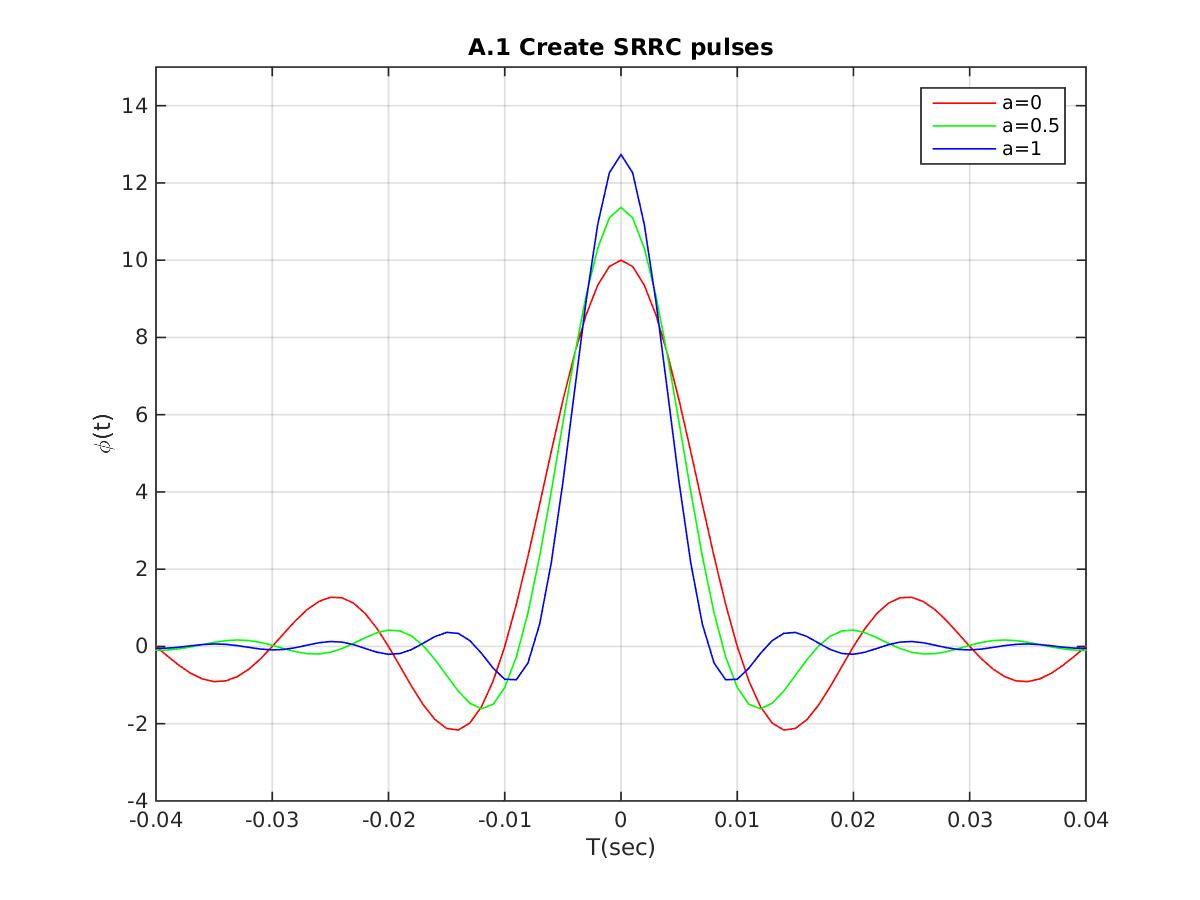
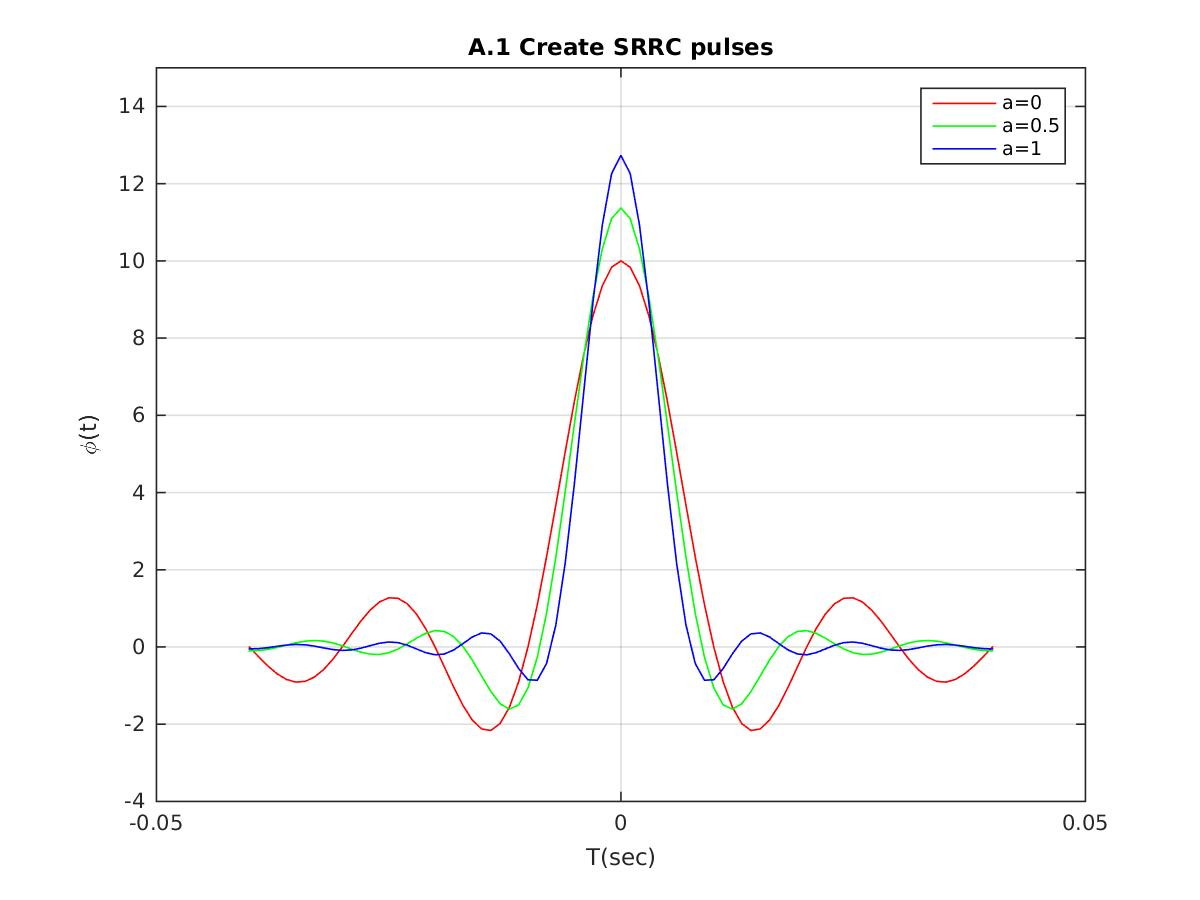
Exec 1, part a figure 1 position fix with screenshot

diff --git a/Lab-1/src/part_a.m b/Lab-1/src/part_a.m
@@ -37,7 +37,7 @@ f=figure();
     % Plot each srrc with a color and save plot to add extra info later  
     plot(t, phi_t(i,:), colors(i),'DisplayName',strcat('a=',num2str(a(i)))) ; hold on ; 
   end
-  hold off ; axis([-0.04 0.04 -4 15]) ;
+  hold off ; axis([-0.05 0.05 -4 15]) ;
 
   % Add more info to plots                                           
   legend('Location','NorthEast');  grid on;
